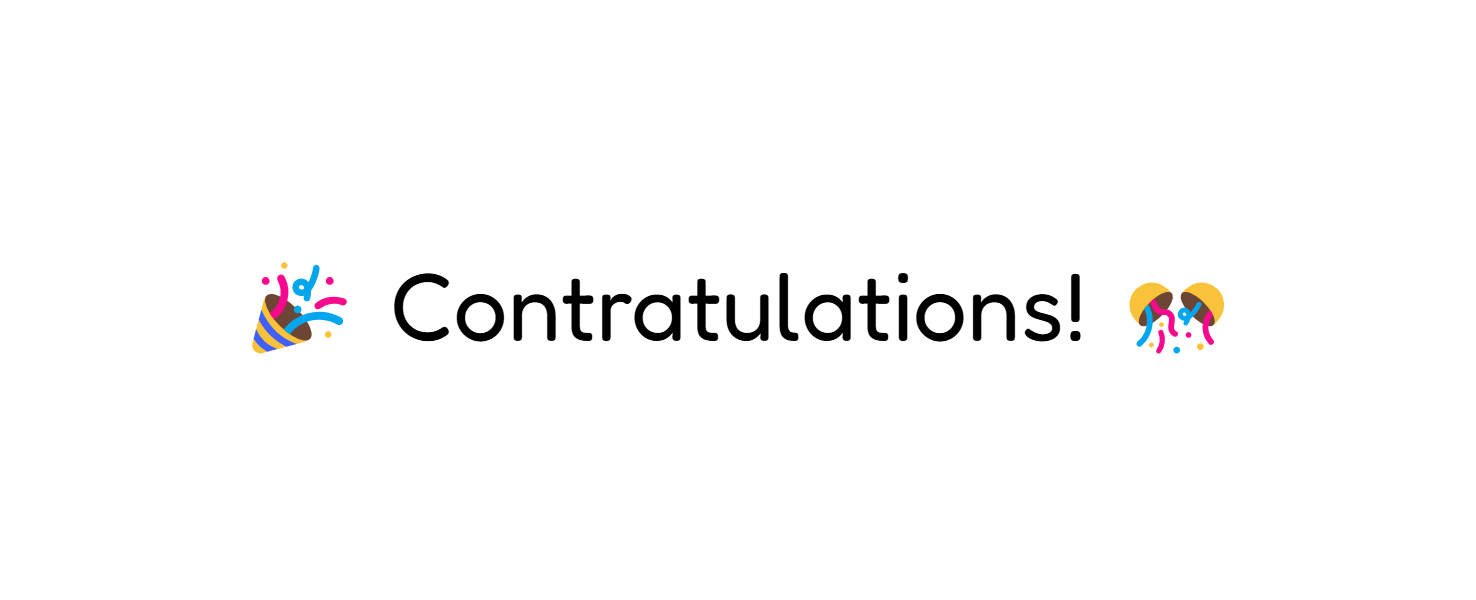
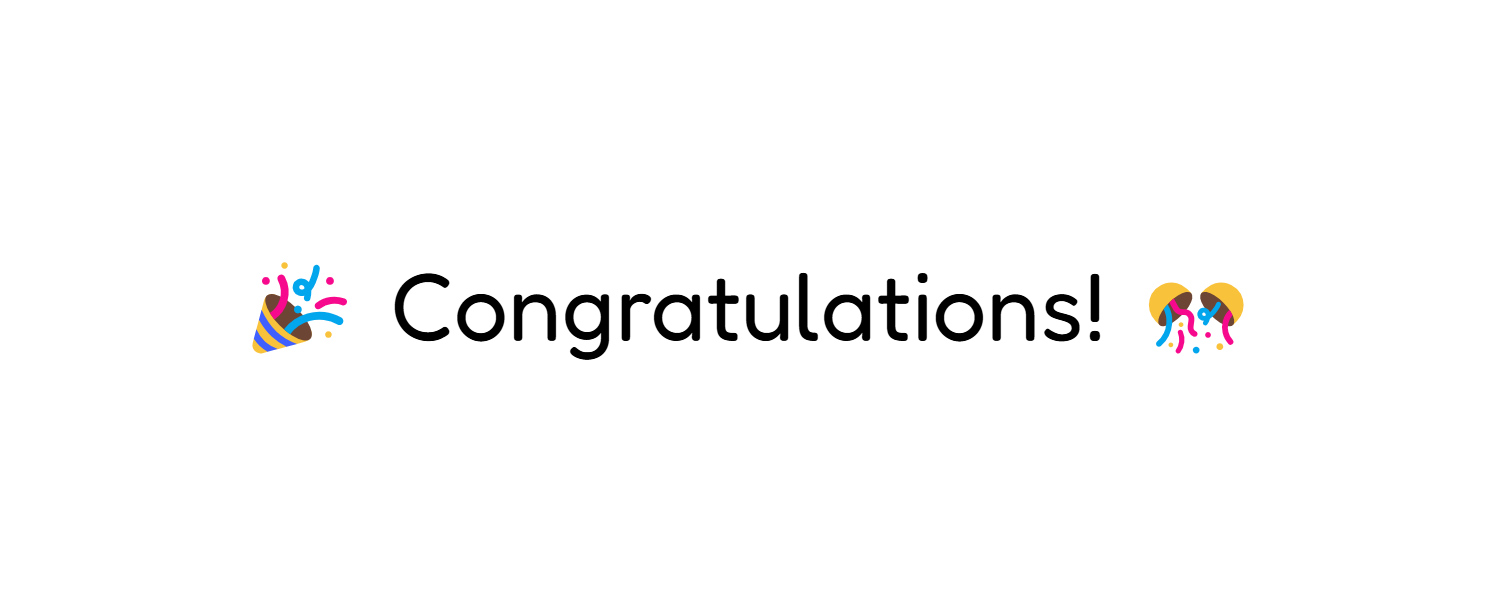
Fix a typo

Changed region(s): [[0.1558, 0.42, 0.8415, 0.6]]

diff --git a/assets/js/game.js b/assets/js/game.js
@@ -183,7 +183,7 @@ function win () {
     setTimeout(() => gameBoard.innerHTML = `
     <div class="winMessage">
     <div class="winMessageText">
-    🎉 Contratulations! 🎊
+    🎉 Congratulations! 🎊
     </div></div>`, 700);
   }
 }
